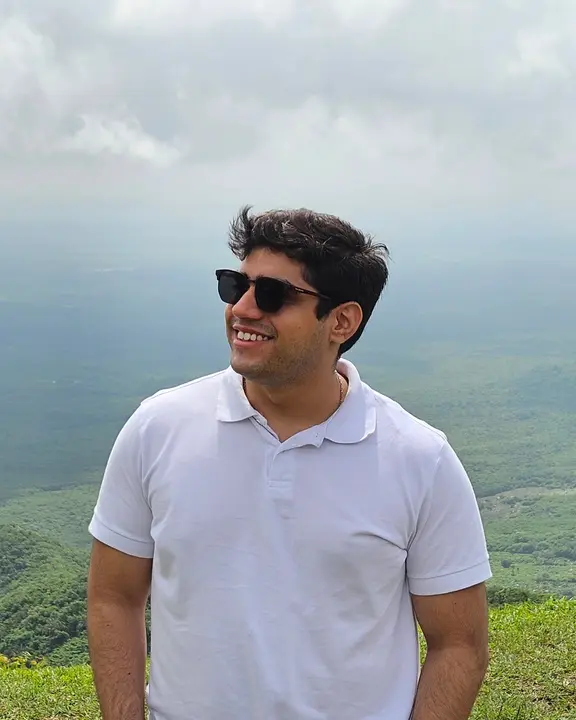
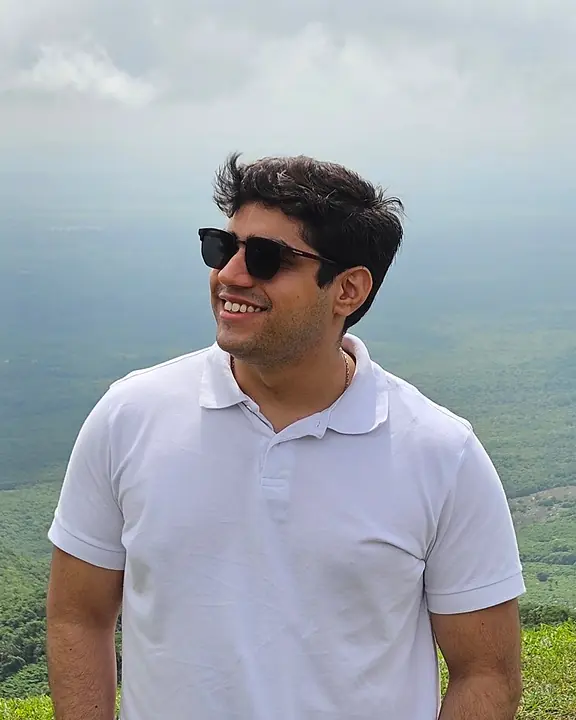
feat(ui): tighter, sharper profile photos (S1 criterion 4, S4 criterion 10)
The user asked for better quality and more of the top of the frame. The
portrait is now a head-and-chest crop (no hands or legs), encoded at
higher quality with Lanczos resizing and light sharpening: 320px (19 KB)
and a native 500px version for high-density screens (the chat copy of the
photo caps the resolution). About me is a slightly tighter upper-body
crop at higher quality. No metadata in any file.

diff --git a/site/index.html b/site/index.html
@@ -98,7 +98,7 @@
     <section class="hero" id="top" aria-labelledby="hero-title">
       <div class="container hero__grid">
         <figure class="hero__photo">
-          <img src="/img/photos/portrait-320.webp" srcset="/img/photos/portrait-320.webp 320w, /img/photos/portrait-640.webp 640w" sizes="(max-width: 860px) 16rem, 20rem" width="320" height="400" fetchpriority="high" alt="Joshuel smiling, sitting on a bench on a wooden deck among the trees">
+          <img src="/img/photos/portrait-320.webp" srcset="/img/photos/portrait-320.webp 320w, /img/photos/portrait-500.webp 500w" sizes="(max-width: 860px) 16rem, 20rem" width="320" height="400" fetchpriority="high" alt="Joshuel smiling, sitting on a bench on a wooden deck among the trees">
         </figure>
         <div class="hero__copy">
           <span class="status">open to remote roles with international teams</span>
